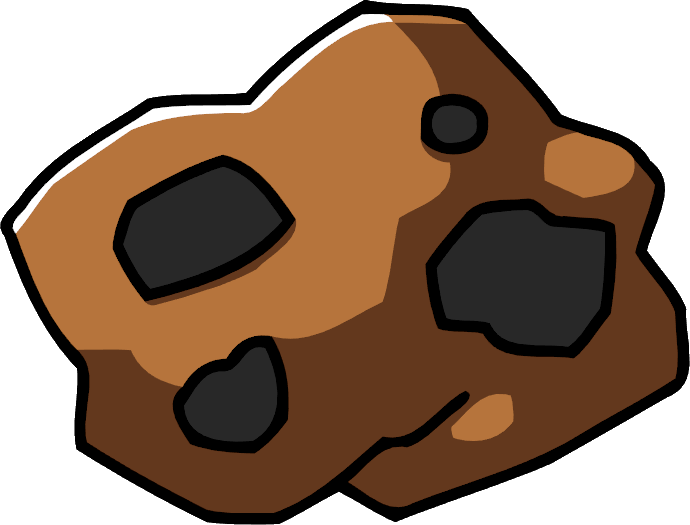
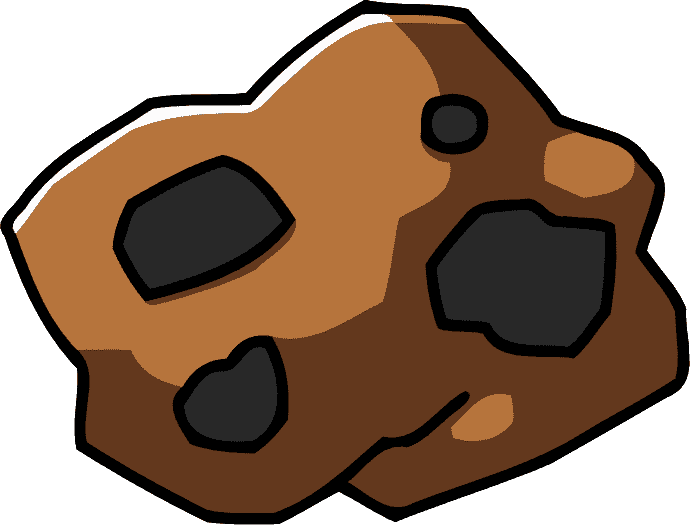
+ hearts/live dinamic & improve assets

diff --git a/main.js b/main.js
@@ -1,1 +1,1 @@
-(()=>{"use strict";const e=(()=>{let e=0;const t=[],o={x:50,y:50};return{getRocket:e=>o[e],setRocket:(e,t)=>o[e]=t,removeAsteroid:(e,o)=>{setTimeout((()=>{r.removeElement(t[e].getUI()),t.splice(e,1)}),o-50)},addAsteroid:e=>t.push(e),getAsteroids:()=>t,getTime:()=>e,addTime:()=>e++,gameOn:()=>!0}})(),t=t=>{if(e.gameOn()){if("ArrowLeft"==t||"a"==t){if(20==e.getRocket("x"))return;e.setRocket("x",e.getRocket("x")-5)}else if("ArrowRight"==t||"d"==t){if(80==e.getRocket("x"))return;e.setRocket("x",e.getRocket("x")+5)}else if("ArrowUp"==t||"w"==t){if(70==e.getRocket("y"))return;e.setRocket("y",e.getRocket("y")+5)}else if("ArrowDown"==t||"s"==t){if(20==e.getRocket("y"))return;e.setRocket("y",e.getRocket("y")-5)}r.moveRocket()}},o=()=>{setInterval((()=>{e.addTime(),r.updateScore()}),1e3)},r=(()=>{const o=document.querySelector("#container"),r=document.querySelector("#score"),c=document.querySelector(".rocket");return window.addEventListener("keyup",(e=>{t(e.key)})),{moveRocket:()=>{c.style.left=e.getRocket("x")+"%",c.style.bottom=e.getRocket("y")+"%"},appendElement:e=>{o.appendChild(e)},removeElement:e=>{o.removeChild(e)},updateScore:()=>{r.textContent=10*e.getTime()}}})();o()})();
+(()=>{"use strict";const e=()=>{const e=document.createElement("div");return e.classList.add("heart"),e},t=(()=>{let e=0,t=0;const o=[],r={x:50,y:50};return{getRocket:e=>r[e],setRocket:(e,t)=>r[e]=t,removeAsteroid:(e,t)=>{setTimeout((()=>{s.removeElement(o[e].getUI()),o.splice(e,1)}),t-50)},addAsteroid:e=>o.push(e),getAsteroids:()=>o,getTime:()=>t,addTime:()=>t++,getLives:()=>e,updateLives:t=>e+=t,gameOn:()=>!0}})(),o=e=>{if(t.gameOn()){if("ArrowLeft"==e||"a"==e){if(20==t.getRocket("x"))return;t.setRocket("x",t.getRocket("x")-5)}else if("ArrowRight"==e||"d"==e){if(80==t.getRocket("x"))return;t.setRocket("x",t.getRocket("x")+5)}else if("ArrowUp"==e||"w"==e){if(70==t.getRocket("y"))return;t.setRocket("y",t.getRocket("y")+5)}else if("ArrowDown"==e||"s"==e){if(20==t.getRocket("y"))return;t.setRocket("y",t.getRocket("y")-5)}s.moveRocket()}},r=e=>{t.updateLives(e),s.updateHearts()},c=()=>{setInterval((()=>{t.addTime(),s.updateScore()}),1e3)},s=(()=>{const r=document.querySelector("#container"),c=document.querySelector("#score"),s=document.querySelector(".rocket"),d=document.querySelector(".hearts");return window.addEventListener("keyup",(e=>{o(e.key)})),{moveRocket:()=>{s.style.left=t.getRocket("x")+"%",s.style.bottom=t.getRocket("y")+"%"},appendElement:e=>{r.appendChild(e)},removeElement:e=>{r.removeChild(e)},updateScore:()=>{c.textContent=10*t.getTime()},updateHearts:()=>{let o=t.getLives()-d.childElementCount;if(o<0)for(;0!=o;)d.removeChild(d.lastChild),o++;else for(;0!=o;)d.appendChild(e()),o--}}})();r(3),c()})();

diff --git a/main.css b/main.css
@@ -548,6 +548,7 @@ video {
 }
 
 * {
+  z-index: 1;
   margin: 0;
   padding: 0;
   box-sizing: border-box;
@@ -561,6 +562,7 @@ body {
 }
 
 #container {
+  z-index: 0;
   height: 100%;
   max-width: 100vw;
   background-image: url(./img/sky.png);
@@ -612,6 +614,28 @@ body {
   padding: 8px 14px;
   font-size: 2rem;
   font-weight: 600;
+}
+
+div.hearts {
+  position: absolute;
+  padding: 10px;
+  display: flex;
+  gap: 4px;
+}
+
+.heart {
+  height: 35px;
+  width: 35px;
+  background-image: url(./img/heart.png);
+  background-repeat: no-repeat;
+  background-size: cover;
+}
+
+.gameOver {
+  width: 100vw;
+  height: 100vh;
+  position: absolute;
+  z-index: 10;
 }
 
 @keyframes fall {

diff --git a/index.html b/index.html
@@ -13,6 +13,7 @@
 </head>
 <body>
   <div id="container">
+    <div class="hearts"></div>
     <div class="score text-zinc-100">SCORE: <span id="score">0</span></div>
     <div class="rocket"></div>
   </div>
